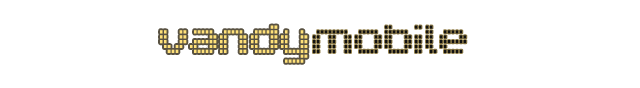
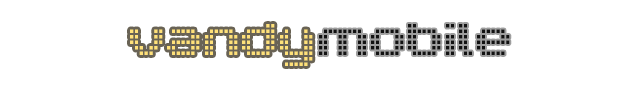
Optimized images, redid a lot of them for non-retina.

Changed region(s): [[0.1875, 0.2273, 0.8125, 0.7955]]

diff --git a/VandyMobile/VMAppDelegate.m b/VandyMobile/VMAppDelegate.m
@@ -57,7 +57,7 @@
     //[[UI appearance] setBackgroundColor:[UIColor colorWithRed:0.969 green:0.831 blue:0.224 alpha:1] /*#f7d439*/];
     
     [[UITabBar appearance] setBackgroundImage:[UIImage imageNamed:@"NewTabBarV3"]];
-    [[UITabBar appearance] setSelectionIndicatorImage:[UIImage imageNamed:@"NewTabBarSelected"]];
+    [[UITabBar appearance] setSelectionIndicatorImage:[UIImage imageNamed:@"NewTabBarSelectedNeue"]];
 //    [[UITabBarItem appearance] setBackgroundColor:[UIColor colorWithRed:0.188 green:0.188 blue:0.188 alpha:1] /*#303030*/ ];
      
 	// Set rootViewController

diff --git a/VandyMobile/NewsViewController.m b/VandyMobile/NewsViewController.m
@@ -120,7 +120,7 @@
 
 - (void)viewDidAppear:(BOOL)animated {
     // Set the background image for *all* UINavigationBars
-    UIImageView *logo = [[UIImageView alloc] initWithImage:[UIImage imageNamed:@"NewNavBarText"]];
+    UIImageView *logo = [[UIImageView alloc] initWithImage:[UIImage imageNamed:@"VandyMobileTextNeue"]];
     if ([[self.navigationController.navigationBar subviews] count] > 2) {
         
         NSArray *navSubviews = [self.navigationController.navigationBar subviews];

diff --git a/VandyMobile/AppsTableViewController.m b/VandyMobile/AppsTableViewController.m
@@ -66,7 +66,7 @@
 
 - (void)viewWillAppear:(BOOL)animated {
     // Set the background image for *all* UINavigationBars
-    UIImageView *logo = [[UIImageView alloc] initWithImage:[UIImage imageNamed:@"NewNavBarText"]];
+    UIImageView *logo = [[UIImageView alloc] initWithImage:[UIImage imageNamed:@"VandyMobileTextNeue"]];
     if ([[self.navigationController.navigationBar subviews] count] > 2) {
         
         NSArray *navSubviews = [self.navigationController.navigationBar subviews];

diff --git a/VandyMobile/MeetingsTableViewController.m b/VandyMobile/MeetingsTableViewController.m
@@ -200,7 +200,7 @@
 - (void)viewWillAppear:(BOOL)animated {
     
     // Set the logo on the navigation bar
-    UIImageView *logo = [[UIImageView alloc] initWithImage:[UIImage imageNamed:@"NewNavBarText"]];
+    UIImageView *logo = [[UIImageView alloc] initWithImage:[UIImage imageNamed:@"VandyMobileTextNeue"]];
     if ([[self.navigationController.navigationBar subviews] count] > 2) {
         NSArray *navSubviews = [self.navigationController.navigationBar subviews];
         

diff --git a/VandyMobile/MyVMViewController.m b/VandyMobile/MyVMViewController.m
@@ -170,7 +170,7 @@
 - (void)viewWillAppear:(BOOL)animated {
     
     // Set the logo on the navigation bar
-    UIImageView *logo = [[UIImageView alloc] initWithImage:[UIImage imageNamed:@"NewNavBarText"]];
+    UIImageView *logo = [[UIImageView alloc] initWithImage:[UIImage imageNamed:@"VandyMobileTextNeue"]];
     if ([[self.navigationController.navigationBar subviews] count] > 2) {
         NSArray *navSubviews = [self.navigationController.navigationBar subviews];
         
